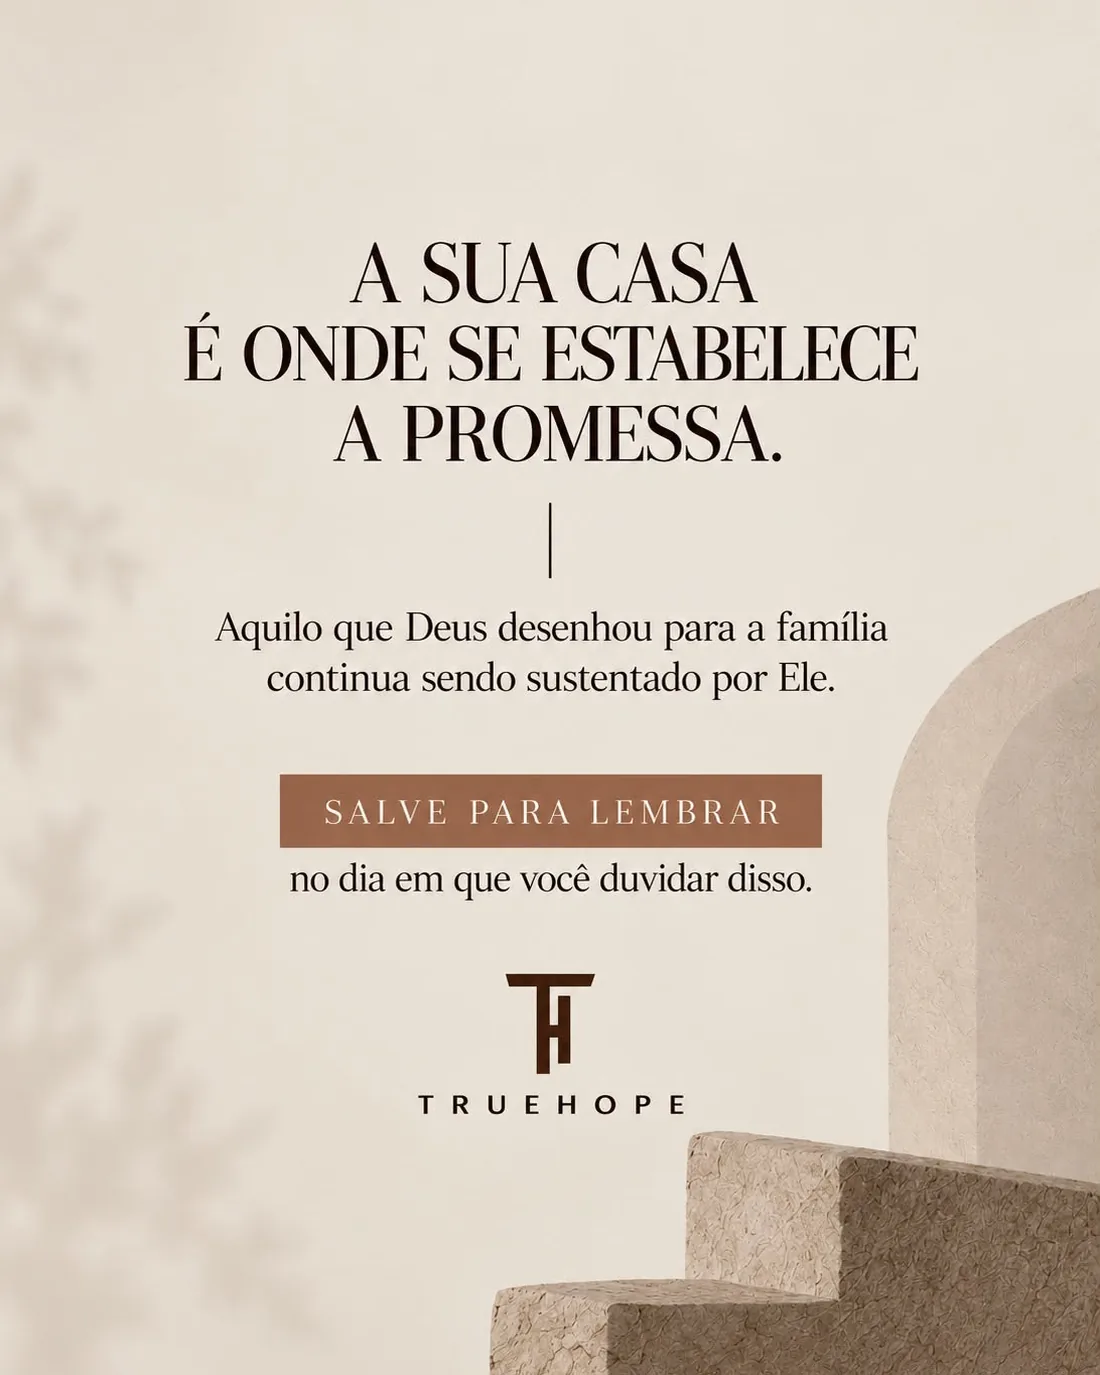
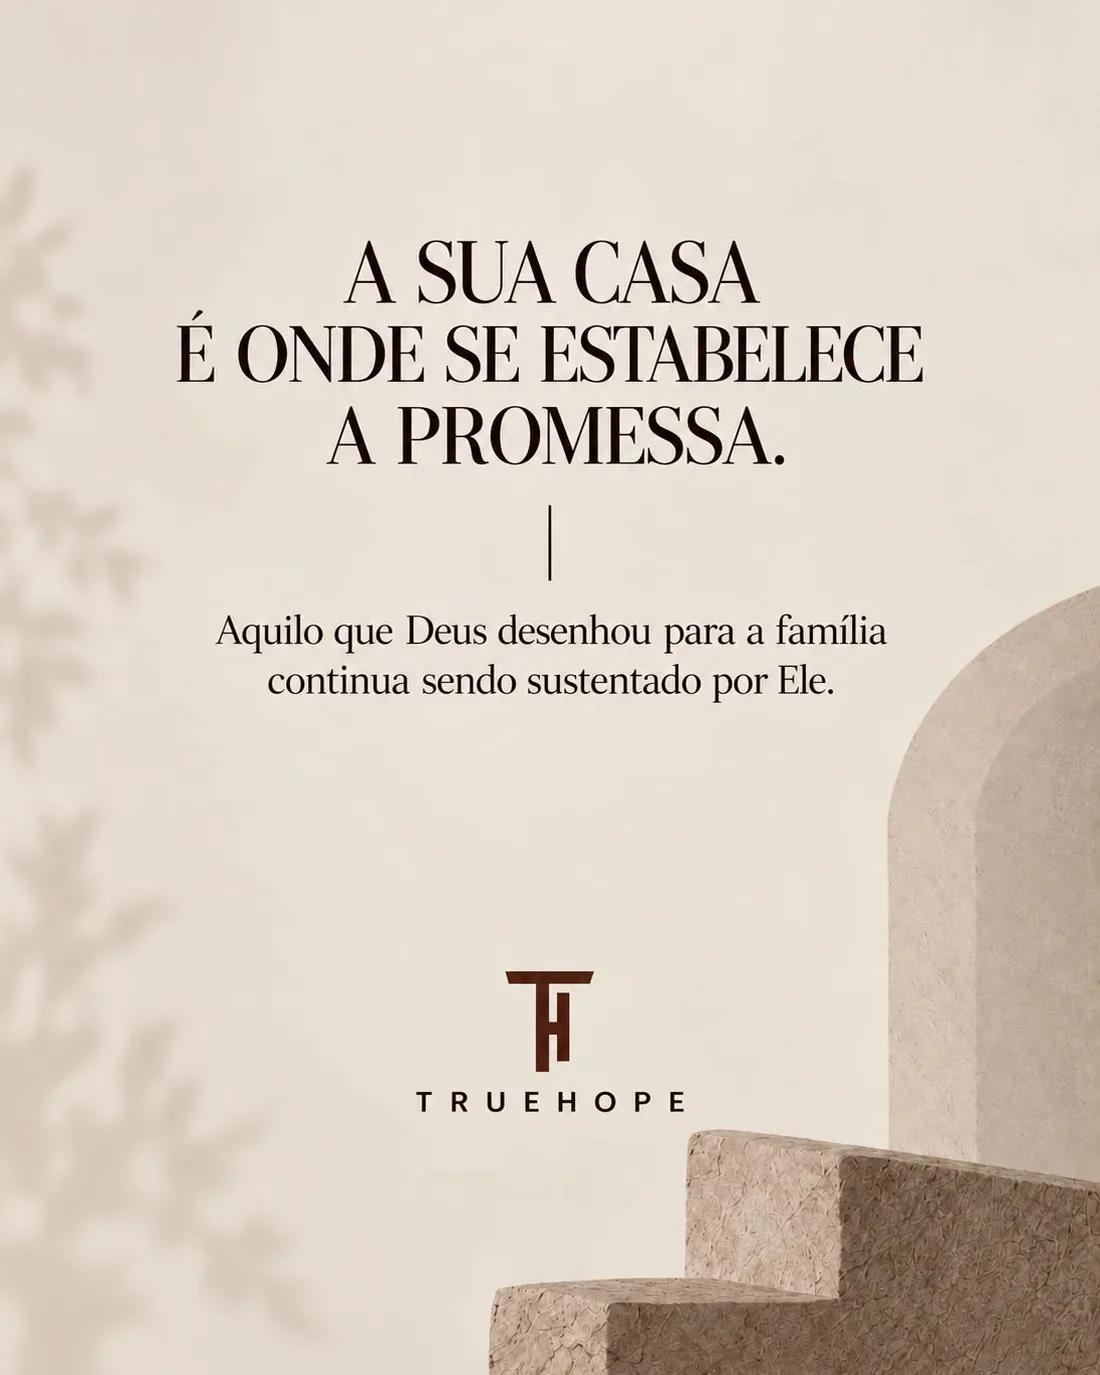
Botão do hero abaixo da frase, "Uma tarde inteira" com complemento, nova foto do símbolo
Hero: .hero__acao vira coluna — o botão fica abaixo da chamada "Uma
convocação..." em vez de ao lado. O conjunto segue centrado na vertical
contra o título.

Programação: título "A tarde inteira" -> "Uma tarde inteira", com um
subtítulo em itálico "de conhecimento, experiências, conexões e
propósito." logo abaixo (.prog__sub).

Símbolo: a última carta ("Onde a promessa se estabelece") recebe a arte
nova, sem o rodapé "salve para lembrar" da versão anterior.

diff --git a/assets/css/site.css b/assets/css/site.css
@@ -338,8 +338,8 @@ body.travado{overflow:hidden;height:100svh}
   grid-column:1;grid-row:1;
   justify-self:start;
   align-self:center;
-  display:flex;align-items:center;flex-wrap:wrap;
-  gap:clamp(14px,1.6vw,26px);
+  display:flex;flex-direction:column;align-items:flex-start;
+  gap:clamp(14px,1.8vh,22px);
   text-align:left;
 }
 .hero__convocacao{
@@ -392,16 +392,14 @@ body.travado{overflow:hidden;height:100svh}
   transform:rotate(-3.2deg);
   transform-origin:right bottom;
 }
-/* abaixo de ~1080px a coluna da esquerda não segura a frase + o botão lado
-   a lado; volta para uma coluna só, título e depois o CTA, tudo à esquerda. */
+/* abaixo de ~1080px a coluna da esquerda fica estreita demais ao lado do
+   título; o CTA volta para baixo dele, numa coluna só. */
 @media(max-width:1080px){
   .hero__conteudo{grid-template-columns:1fr;justify-items:start;text-align:left}
   .hero__titulo{grid-column:1;grid-row:auto;justify-self:start}
   .hero__acao{grid-column:1;grid-row:auto;align-self:auto;margin-top:clamp(16px,3vh,32px)}
 }
 @media(max-width:760px){
-  /* no celular a frase e o botão voltam a empilhar: lado a lado não cabem */
-  .hero__acao{flex-direction:column;align-items:flex-start;gap:clamp(12px,1.8vh,18px)}
   .hero__titulo{max-width:11ch}
   /* no celular a caixa do título é estreita e o script cai em cima do
      "ARQUITETO" — aqui ele encosta no respiro, sem cruzar a tinta. */
@@ -781,6 +779,12 @@ body.travado{overflow:hidden;height:100svh}
 }
 .prog__aside{display:grid;gap:clamp(14px,2vw,22px);position:sticky;top:clamp(84px,13vh,130px)}
 .prog__titulo{font-size:clamp(32px,5.4vw,72px);max-width:9ch}
+.prog__sub{
+  font-family:var(--voz);font-style:italic;
+  font-size:clamp(17px,1.9vw,22px);line-height:1.4;
+  color:var(--terra);max-width:24ch;
+  margin-top:calc(clamp(14px,2vw,22px) * -.4);
+}
 .prog__local{font-size:14.5px;line-height:1.7;color:var(--tinta-suave)}
 .prog__local b{font-weight:500;color:var(--tinta);display:block}
 .prog__lista{display:grid}

diff --git a/index.html b/index.html
@@ -245,7 +245,8 @@
 
     <div class="prog__aside">
       <p class="rotulo rv">13h às 15h30</p>
-      <h2 class="prog__titulo display rv">A tarde inteira</h2>
+      <h2 class="prog__titulo display rv">Uma tarde inteira</h2>
+      <p class="prog__sub rv">de conhecimento, experiências, conexões e propósito.</p>
       <p class="prog__local rv">
         <b>Avenida Tamboré, 74</b>
         Alphaville — São Paulo<br>
